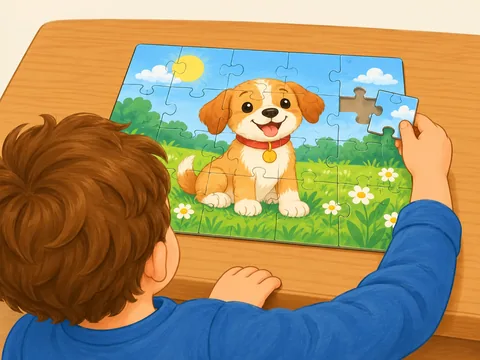
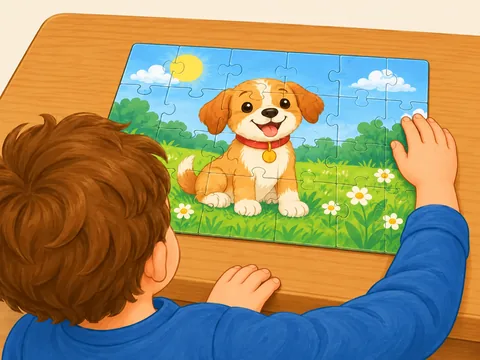
Test Hub: refresh test-apps/word-book-posters/, test-apps/slots.json,  — staged only, no service worker
Deployed by scripts/deploy-testhub.sh: source and destination checkouts verified
by scripts/assert-checkout.sh, staged tree proven worker-free, scope audited to
test-apps/ only. Production untouched.

diff --git a/test-apps/word-book-posters/dictionary.html b/test-apps/word-book-posters/dictionary.html
@@ -4,10 +4,10 @@
   <meta charset="UTF-8"/>
   <meta name="viewport" content="width=device-width, initial-scale=1.0"/>
   <title>Our Dictionary</title>
-  <link rel="manifest" href="./manifest.webmanifest?v=5d4bd8c79-20261015104157"/>
-  <link rel="stylesheet" href="./fonts.css?v=5d4bd8c79-20261015104157"/>
+  <link rel="manifest" href="./manifest.webmanifest?v=3326f6017-20261015125554"/>
+  <link rel="stylesheet" href="./fonts.css?v=3326f6017-20261015125554"/>
   <meta name="theme-color" content="#3a1e33"/>
-  <link rel="apple-touch-icon" href="./assets/icons/icon-192.png?v=5d4bd8c79-20261015104157"/>
+  <link rel="apple-touch-icon" href="./assets/icons/icon-192.png?v=3326f6017-20261015125554"/>
   <meta name="apple-mobile-web-app-capable" content="yes"/>
   <meta name="apple-mobile-web-app-status-bar-style" content="black-translucent"/>
   <meta name="apple-mobile-web-app-title" content="Our Dictionary"/>
@@ -476,8 +476,8 @@
   <div class="grid" id="grid"></div>
 </main>
 
-<script src="word-audio.js?v=5d4bd8c79-20261015104157"></script>
-<script src="sentence-audio.js?v=5d4bd8c79-20261015104157"></script>
+<script src="word-audio.js?v=3326f6017-20261015125554"></script>
+<script src="sentence-audio.js?v=3326f6017-20261015125554"></script>
 <script>
 (function () {
   'use strict';
@@ -566,7 +566,7 @@
     });
   }
   function collectionIconMarkup(c) {
-    return '<img class="owner-group-icon" src="' + esc(c.icon_path) + '?v=5d4bd8c79-20261015104157" alt="" ' +
+    return '<img class="owner-group-icon" src="' + esc(c.icon_path) + '?v=3326f6017-20261015125554" alt="" ' +
       'data-fallback="' + esc(c.icon) + '" draggable="false">';
   }
   document.addEventListener('error', function (event) {
@@ -692,7 +692,7 @@
     var word = r[0], sense = r[1], eg = r[3], pic = c.pic;
     var clip = WA ? WA.clipFor(word, sense) : null;
     var art = pic
-      ? '<div class="pic"><img src="' + esc(pic) + '?v=5d4bd8c79-20261015104157" alt="" loading="lazy" decoding="async" draggable="false"></div>'
+      ? '<div class="pic"><img src="' + esc(pic) + '?v=3326f6017-20261015125554" alt="" loading="lazy" decoding="async" draggable="false"></div>'
       : '<div class="pic todo"><span>picture to come</span></div>';
     var speak = clip
       ? '<button type="button" class="speak" data-clip="' + esc(clip) + '" aria-label="Hear ' +
@@ -760,6 +760,17 @@
     count.textContent = found.length === 1 ? '1 word' : found.length + ' words';
   }
 
+  /* Owner 2026-10-15: "put the approved ones on live ... on the test hub ... only list
+     the ones that's not live on main hub yet." posters.json `live` names the approved
+     posters. The public app shows only those; the Test Hub copy (served under
+     /test-apps/) shows only the rest; ?posters=all shows every poster for checks. */
+  function scopePosters(list, live) {
+    var loc = typeof location !== 'undefined' ? location : { search: '', pathname: '' };
+    var q = /[?&]posters=(all|live|staging)(?:&|$)/.exec(loc.search || '');
+    var scope = q ? q[1] : ((loc.pathname || '').indexOf('/test-apps/') > -1 ? 'staging' : 'live');
+    if (scope === 'all') return list;
+    return list.filter(function (p) { return (live.indexOf(p.id) > -1) === (scope === 'live'); });
+  }
   function availablePoster(p) {
     var rows = p.senses.map(function (sense) { return rowBySense[sense]; }).filter(Boolean);
     return rows.length >= Number(p.min_released || 3) ? rows : [];
@@ -804,7 +815,7 @@
     return '<button type="button" class="poster-chip" data-chip-sense="' + esc(sense) + '"' +
       ' data-clip="' + esc(clip) + '" data-kind="' + (sentenceClip ? 'sentence' : 'word') + '"' +
       ' aria-label="' + (sentenceClip ? 'Hear the sentence for ' : 'Hear ') + esc(word) + '">' +
-      '<span class="poster-chip-pic"><img src="' + esc(pic) + '?v=5d4bd8c79-20261015104157" alt="" loading="lazy" decoding="async" draggable="false"></span>' +
+      '<span class="poster-chip-pic"><img src="' + esc(pic) + '?v=3326f6017-20261015125554" alt="" loading="lazy" decoding="async" draggable="false"></span>' +
       '<span class="poster-chip-word">' + esc(word) + '</span></button>';
   }
   /* Shape the strip so all of it is on screen beside (landscape) or under (portrait)
@@ -859,7 +870,7 @@
       grid.innerHTML = '<div class="poster-groups">' + groups.map(function (name) {
         return '<section class="poster-group"><h2>' + esc(name) + '</h2><div class="poster-choices">' + byGroup[name].map(function (x) {
           return '<button type="button" class="poster-choice" data-poster="' + esc(x.p.id) + '">' +
-          '<img src="' + esc(x.p.plate || ('assets/posters/' + x.p.id + '.webp')) + '?v=5d4bd8c79-20261015104157" alt="" loading="lazy" draggable="false">' +
+          '<img src="' + esc(x.p.plate || ('assets/posters/' + x.p.id + '.webp')) + '?v=3326f6017-20261015125554" alt="" loading="lazy" draggable="false">' +
           '<span class="poster-choice-copy">' + esc(x.p.title) + '<span>' + x.rows.length +
           (x.rows.length === 1 ? ' word' : ' words') + '</span></span></button>';
         }).join('') + '</div></section>';
@@ -882,7 +893,7 @@
     var chips = chosen.rows.map(posterChip).join('');
     grid.innerHTML = '<div class="poster-heading"><button type="button" class="poster-back" data-all-posters aria-label="All posters">←</button><h2>' +
       esc(chosen.p.title) + '</h2></div><div class="poster-body"><div class="poster-stage-area"><div class="poster-stage ' + esc(chosen.p.layout) + '" data-poster-stage="' + esc(chosen.p.id) + '">' +
-      '<img class="poster-plate" src="' + esc(chosen.p.plate) + '?v=5d4bd8c79-20261015104157" alt="" draggable="false">' +
+      '<img class="poster-plate" src="' + esc(chosen.p.plate) + '?v=3326f6017-20261015125554" alt="" draggable="false">' +
       (chosen.p.pointer ? '<svg class="poster-pointers" viewBox="0 0 100 100" preserveAspectRatio="none" aria-hidden="true">' + pointers.join('') + '</svg>' : '') + pieces.join('') + '</div></div>' +
       (chips ? '<div class="poster-strip" role="group" aria-label="Small word cards: tap one to hear its sentence">' + chips + '</div>' : '') +
       '</div>';
@@ -1116,7 +1127,7 @@
     var d = values[0];
     ledger = values[1];
     var posterData = values[2] || {};
-    posters = posterData.posters || [];
+    posters = scopePosters(posterData.posters || [], posterData.live || []);
     filterData(d);
     (d.rows || []).forEach(function (r) { rowBySense[r[1]] = r; });
     /* The full dictionary source remains owned by held PR #1352. These four rows make
@@ -1158,6 +1169,6 @@
   }
 })();
 </script>
-<script src="./tap-zoom-guard.js?v=5d4bd8c79-20261015104157"></script>
+<script src="./tap-zoom-guard.js?v=3326f6017-20261015125554"></script>
 </body>
 </html>

diff --git a/test-apps/word-book-posters/index.html b/test-apps/word-book-posters/index.html
@@ -4,11 +4,11 @@
   <meta charset="UTF-8"/>
   <meta name="viewport" content="width=device-width, initial-scale=1.0"/>
   <title>Our Word Book</title>
-  <link rel="manifest" href="./manifest.webmanifest?v=5d4bd8c79-20261015104157"/>
-  <link rel="stylesheet" href="./fonts.css?v=5d4bd8c79-20261015104157"/>
-  <link rel="stylesheet" href="./room-label.css?v=5d4bd8c79-20261015104157"/>
+  <link rel="manifest" href="./manifest.webmanifest?v=3326f6017-20261015125554"/>
+  <link rel="stylesheet" href="./fonts.css?v=3326f6017-20261015125554"/>
+  <link rel="stylesheet" href="./room-label.css?v=3326f6017-20261015125554"/>
   <meta name="theme-color" content="#3a1e33"/>
-  <link rel="apple-touch-icon" href="./assets/icons/icon-192.png?v=5d4bd8c79-20261015104157"/>
+  <link rel="apple-touch-icon" href="./assets/icons/icon-192.png?v=3326f6017-20261015125554"/>
   <meta name="apple-mobile-web-app-capable" content="yes"/>
   <meta name="apple-mobile-web-app-status-bar-style" content="black-translucent"/>
   <meta name="apple-mobile-web-app-title" content="Our Word Book"/>
@@ -348,7 +348,7 @@
 <main class="room" id="roomView" aria-label="Our Word Book room">
   <h1 class="room-title">Our <span>Word Book</span></h1>
   <div class="room-frame" id="roomFrame">
-    <img class="room-img" src="assets/room-plate.webp?v=5d4bd8c79-20261015104157" width="1448" height="1086" alt="" draggable="false"/>
+    <img class="room-img" src="assets/room-plate.webp?v=3326f6017-20261015125554" width="1448" height="1086" alt="" draggable="false"/>
   </div>
 </main>
 
@@ -374,7 +374,7 @@
          shared-data/dictionary/README.md. It is listed first because it is what the
          other three are about. -->
     <a class="card c-dict" data-dest="dictionary" data-label="Our Dictionary" href="dictionary.html">
-      <img src="assets/icons/dictionary.webp?v=5d4bd8c79-20261015104157" alt="" width="104" height="104"/>
+      <img src="assets/icons/dictionary.webp?v=3326f6017-20261015125554" alt="" width="104" height="104"/>
       Our Dictionary
       <small>Every word, in English and Thai</small>
     </a>
@@ -392,7 +392,7 @@
          Until then this points at where the page actually is, so no child meets a 404.
          When it moves, this href becomes `spelling.html` and nothing else here changes. -->
     <a class="card c-spell" data-dest="spelling" data-label="Spelling" href="https://veeranuchlee.github.io/magic-math/magic-spelling.html">
-      <img src="assets/icons/spelling.webp?v=5d4bd8c79-20261015104157" alt="" width="104" height="104"/>
+      <img src="assets/icons/spelling.webp?v=3326f6017-20261015125554" alt="" width="104" height="104"/>
       Spelling
       <small>Letters and words, grade by grade</small>
     </a>
@@ -400,13 +400,13 @@
     <!-- The two apps below are separate deploys in the same public repository, so their
          links are absolute for the same reason the back arrow's is. -->
     <a class="card c-write" data-dest="writing" data-label="Writing Book" href="https://veeranuchlee.github.io/writing-book/">
-      <img src="assets/icons/writing-book.webp?v=5d4bd8c79-20261015104157" alt="" width="104" height="104"/>
+      <img src="assets/icons/writing-book.webp?v=3326f6017-20261015125554" alt="" width="104" height="104"/>
       Writing Book
       <small>Trace words and fill your sticker book</small>
     </a>
 
     <a class="card c-exam" data-dest="exam" data-label="Spelling Exam" href="https://veeranuchlee.github.io/spelling-exam/">
-      <img src="assets/icons/spelling-exam.webp?v=5d4bd8c79-20261015104157" alt="" width="104" height="104"/>
+      <img src="assets/icons/spelling-exam.webp?v=3326f6017-20261015125554" alt="" width="104" height="104"/>
       Spelling Exam
       <small>See the picture, build the word, then spell it</small>
     </a>
@@ -416,7 +416,7 @@
          ?from=wordbook makes its back arrow return here. Absolute, like the two cards above,
          because it is a separate deploy in the same public repository. -->
     <a class="card c-books" data-dest="bookshelf" data-label="Bookshelf" href="https://veeranuchlee.github.io/reading/?from=wordbook">
-      <img src="assets/icons/bookshelf.webp?v=5d4bd8c79-20261015104157" alt="" width="104" height="104"/>
+      <img src="assets/icons/bookshelf.webp?v=3326f6017-20261015125554" alt="" width="104" height="104"/>
       <span class="card-words">Bookshelf
       <small>Read a picture book every day</small></span>
     </a>
@@ -431,7 +431,7 @@
 
   <footer>Made with love for little learners</footer>
 </div>
-<script src="./room-label.js?v=5d4bd8c79-20261015104157"></script>
+<script src="./room-label.js?v=3326f6017-20261015125554"></script>
 <script>
   /* ══ ROOM ══ draws one hotspot per VISIBLE card, from the card's own href and label, in the
      box #roomMap gives it. Re-run by the grammar gate below when it reveals the Grammar
@@ -618,6 +618,6 @@
   })();
   window.__wbMusic = function () { return Music; };
 </script>
-<script src="./tap-zoom-guard.js?v=5d4bd8c79-20261015104157"></script>
+<script src="./tap-zoom-guard.js?v=3326f6017-20261015125554"></script>
 </body>
 </html>

diff --git a/test-apps/word-book-posters/fonts.css b/test-apps/word-book-posters/fonts.css
@@ -13,7 +13,7 @@
   font-style: normal;
   font-weight: 400;
   font-display: swap;
-  src: url(./fonts/FredokaOne-latin.woff2?v=5d4bd8c79-20261015104157) format('woff2');
+  src: url(./fonts/FredokaOne-latin.woff2?v=3326f6017-20261015125554) format('woff2');
   unicode-range: U+0000-00FF, U+0131, U+0152-0153, U+02BB-02BC, U+02C6, U+02DA, U+02DC, U+0304, U+0308, U+0329, U+2000-206F, U+20AC, U+2122, U+2191, U+2193, U+2212, U+2215, U+FEFF, U+FFFD;
 }
 /* latin-ext */
@@ -22,7 +22,7 @@
   font-style: normal;
   font-weight: 400;
   font-display: swap;
-  src: url(./fonts/Nunito-latin-ext.woff2?v=5d4bd8c79-20261015104157) format('woff2');
+  src: url(./fonts/Nunito-latin-ext.woff2?v=3326f6017-20261015125554) format('woff2');
   unicode-range: U+0100-02BA, U+02BD-02C5, U+02C7-02CC, U+02CE-02D7, U+02DD-02FF, U+0304, U+0308, U+0329, U+1D00-1DBF, U+1E00-1E9F, U+1EF2-1EFF, U+2020, U+20A0-20AB, U+20AD-20C0, U+2113, U+2C60-2C7F, U+A720-A7FF;
 }
 /* latin */
@@ -31,7 +31,7 @@
   font-style: normal;
   font-weight: 400;
   font-display: swap;
-  src: url(./fonts/Nunito-latin.woff2?v=5d4bd8c79-20261015104157) format('woff2');
+  src: url(./fonts/Nunito-latin.woff2?v=3326f6017-20261015125554) format('woff2');
   unicode-range: U+0000-00FF, U+0131, U+0152-0153, U+02BB-02BC, U+02C6, U+02DA, U+02DC, U+0304, U+0308, U+0329, U+2000-206F, U+20AC, U+2122, U+2191, U+2193, U+2212, U+2215, U+FEFF, U+FFFD;
 }
 /* latin-ext */
@@ -40,7 +40,7 @@
   font-style: normal;
   font-weight: 600;
   font-display: swap;
-  src: url(./fonts/Nunito-latin-ext.woff2?v=5d4bd8c79-20261015104157) format('woff2');
+  src: url(./fonts/Nunito-latin-ext.woff2?v=3326f6017-20261015125554) format('woff2');
   unicode-range: U+0100-02BA, U+02BD-02C5, U+02C7-02CC, U+02CE-02D7, U+02DD-02FF, U+0304, U+0308, U+0329, U+1D00-1DBF, U+1E00-1E9F, U+1EF2-1EFF, U+2020, U+20A0-20AB, U+20AD-20C0, U+2113, U+2C60-2C7F, U+A720-A7FF;
 }
 /* latin */
@@ -49,7 +49,7 @@
   font-style: normal;
   font-weight: 600;
   font-display: swap;
-  src: url(./fonts/Nunito-latin.woff2?v=5d4bd8c79-20261015104157) format('woff2');
+  src: url(./fonts/Nunito-latin.woff2?v=3326f6017-20261015125554) format('woff2');
   unicode-range: U+0000-00FF, U+0131, U+0152-0153, U+02BB-02BC, U+02C6, U+02DA, U+02DC, U+0304, U+0308, U+0329, U+2000-206F, U+20AC, U+2122, U+2191, U+2193, U+2212, U+2215, U+FEFF, U+FFFD;
 }
 /* latin-ext */
@@ -58,7 +58,7 @@
   font-style: normal;
   font-weight: 700;
   font-display: swap;
-  src: url(./fonts/Nunito-latin-ext.woff2?v=5d4bd8c79-20261015104157) format('woff2');
+  src: url(./fonts/Nunito-latin-ext.woff2?v=3326f6017-20261015125554) format('woff2');
   unicode-range: U+0100-02BA, U+02BD-02C5, U+02C7-02CC, U+02CE-02D7, U+02DD-02FF, U+0304, U+0308, U+0329, U+1D00-1DBF, U+1E00-1E9F, U+1EF2-1EFF, U+2020, U+20A0-20AB, U+20AD-20C0, U+2113, U+2C60-2C7F, U+A720-A7FF;
 }
 /* latin */
@@ -67,7 +67,7 @@
   font-style: normal;
   font-weight: 700;
   font-display: swap;
-  src: url(./fonts/Nunito-latin.woff2?v=5d4bd8c79-20261015104157) format('woff2');
+  src: url(./fonts/Nunito-latin.woff2?v=3326f6017-20261015125554) format('woff2');
   unicode-range: U+0000-00FF, U+0131, U+0152-0153, U+02BB-02BC, U+02C6, U+02DA, U+02DC, U+0304, U+0308, U+0329, U+2000-206F, U+20AC, U+2122, U+2191, U+2193, U+2212, U+2215, U+FEFF, U+FFFD;
 }
 /* latin-ext */
@@ -76,7 +76,7 @@
   font-style: normal;
   font-weight: 900;
   font-display: swap;
-  src: url(./fonts/Nunito-latin-ext.woff2?v=5d4bd8c79-20261015104157) format('woff2');
+  src: url(./fonts/Nunito-latin-ext.woff2?v=3326f6017-20261015125554) format('woff2');
   unicode-range: U+0100-02BA, U+02BD-02C5, U+02C7-02CC, U+02CE-02D7, U+02DD-02FF, U+0304, U+0308, U+0329, U+1D00-1DBF, U+1E00-1E9F, U+1EF2-1EFF, U+2020, U+20A0-20AB, U+20AD-20C0, U+2113, U+2C60-2C7F, U+A720-A7FF;
 }
 /* latin */
@@ -85,6 +85,6 @@
   font-style: normal;
   font-weight: 900;
   font-display: swap;
-  src: url(./fonts/Nunito-latin.woff2?v=5d4bd8c79-20261015104157) format('woff2');
+  src: url(./fonts/Nunito-latin.woff2?v=3326f6017-20261015125554) format('woff2');
   unicode-range: U+0000-00FF, U+0131, U+0152-0153, U+02BB-02BC, U+02C6, U+02DA, U+02DC, U+0304, U+0308, U+0329, U+2000-206F, U+20AC, U+2122, U+2191, U+2193, U+2212, U+2215, U+FEFF, U+FFFD;
 }

diff --git a/test-apps/word-book-posters/grammar-game.html b/test-apps/word-book-posters/grammar-game.html
@@ -4,15 +4,15 @@
   <meta charset="utf-8"/>
   <meta name="viewport" content="width=device-width, initial-scale=1"/>
   <title>Grammar Game</title>
-  <link rel="apple-touch-icon" href="./assets/icons/icon-192.png?v=5d4bd8c79-20261015104157"/>
-  <link rel="stylesheet" href="./fonts.css?v=5d4bd8c79-20261015104157"/>
-  <link rel="stylesheet" href="./grammar-game.css?v=5d4bd8c79-20261015104157"/>
+  <link rel="apple-touch-icon" href="./assets/icons/icon-192.png?v=3326f6017-20261015125554"/>
+  <link rel="stylesheet" href="./fonts.css?v=3326f6017-20261015125554"/>
+  <link rel="stylesheet" href="./grammar-game.css?v=3326f6017-20261015125554"/>
 </head>
 <body>
   <a class="back" href="./index.html" aria-label="Back to Our Word Book">‹ <span>Word Book</span></a>
   <main>
     <section id="start" class="panel start-panel">
-      <img src="./assets/grammar/grammar-game.webp?v=5d4bd8c79-20261015104157" alt="A child arranging colourful word tiles beside an open book"/>
+      <img src="./assets/grammar/grammar-game.webp?v=3326f6017-20261015125554" alt="A child arranging colourful word tiles beside an open book"/>
       <h1>Grammar Game</h1>
       <p>Build sentences, spot word jobs and help every sentence shine.</p>
       <button id="play" class="primary" type="button">Play</button>
@@ -31,7 +31,7 @@
     </section>
 
     <section id="finish" class="panel start-panel" hidden>
-      <img src="./assets/grammar/building-together.webp?v=5d4bd8c79-20261015104157" alt="Two children building a colourful block tower together"/>
+      <img src="./assets/grammar/building-together.webp?v=3326f6017-20261015125554" alt="Two children building a colourful block tower together"/>
       <h1>Sentence star!</h1>
       <p id="finishCopy"></p>
       <button id="again" class="primary" type="button">Play again</button>
@@ -48,7 +48,7 @@
     </div>
   </div>
 
-  <script src="./tap-zoom-guard.js?v=5d4bd8c79-20261015104157"></script>
-  <script src="./grammar-game.js?v=5d4bd8c79-20261015104157"></script>
+  <script src="./tap-zoom-guard.js?v=3326f6017-20261015125554"></script>
+  <script src="./grammar-game.js?v=3326f6017-20261015125554"></script>
 </body>
 </html>

diff --git a/test-apps/word-book-posters/new-art.html b/test-apps/word-book-posters/new-art.html
@@ -4,7 +4,7 @@
 <meta charset="utf-8">
 <meta name="viewport" content="width=device-width, initial-scale=1, viewport-fit=cover">
 <title>New Word Pictures</title>
-<link rel="stylesheet" href="./fonts.css?v=5d4bd8c79-20261015104157">
+<link rel="stylesheet" href="./fonts.css?v=3326f6017-20261015125554">
 <!--
   STAGING-ONLY REVIEW PAGE. Never shipped: it lives in word-book/qa/, which the app's
   .publish-manifest marks [private], and word-book/tools/stage-testhub-next.py copies it
@@ -142,7 +142,7 @@
           var k = i++;
           if (seen[seenKey(c)]) n++;
           return '<button type="button" class="t' + (seen[seenKey(c)] ? ' seen' : '') + '" data-i="' + k + '">' +
-            '<span class="w">' + (c.pic ? '<img src="' + esc(c.pic) + '?v=5d4bd8c79-20261015104157" alt="" loading="lazy" decoding="async">' : '') + '</span>' +
+            '<span class="w">' + (c.pic ? '<img src="' + esc(c.pic) + '?v=3326f6017-20261015125554" alt="" loading="lazy" decoding="async">' : '') + '</span>' +
             '<span class="cap"><span class="word">' + esc(c.word) + '</span>' +
             '<span class="thai" lang="th">' + esc(c.thai) + '</span>' +
             (c.pos ? '<span class="why">' + esc(c.pos.join(' + ')) + '</span>' : '') +
